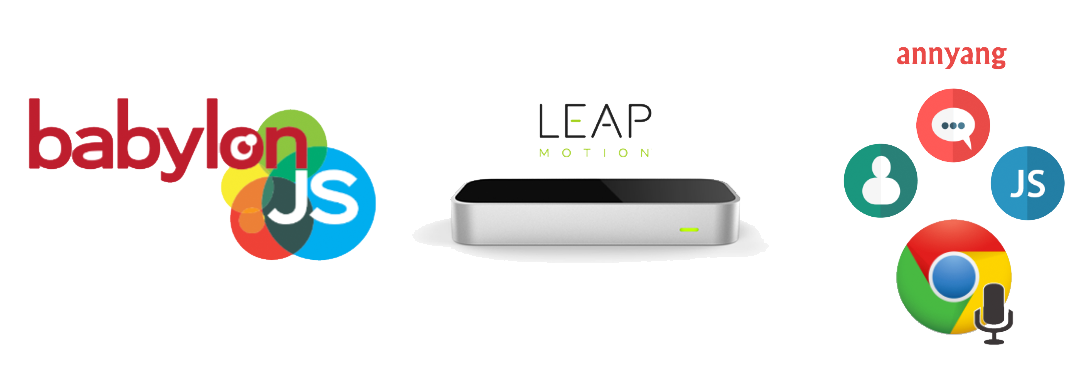
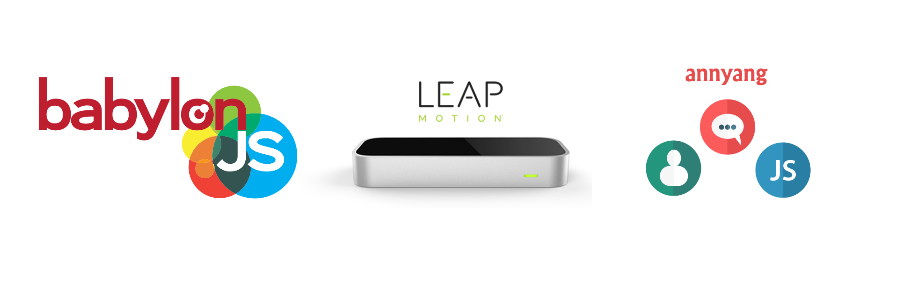
moved annyang section

Changed region(s): [[0.0, 0.2238, 0.9967, 0.951], [0.4672, 0.2797, 0.6229, 0.4476], [0.8098, 0.1119, 0.9344, 0.1958]]

diff --git a/docuPictureEditingSpeechmotion.html b/docuPictureEditingSpeechmotion.html
@@ -480,30 +480,13 @@ currentPickedMesh.scaling.y = handNormPosition[1] * 10;}</code></pre>
                         </br>
                         <p><strong>Annyang</strong></p>
                         <p><small>Sprachsteuerung</small></p>
-                        <p>Annyang ist sehr einfach zu nutzen. Wichtig zu wissen bei Annyang ist (was wir nur durch Testen mit einhergehender Verzweiflung herausfanden)
-                        </p>
-                        <p><strong>Annyang kann nur in einem Tab genutzt werden!</strong> Wird Annyang in mehreren Tabs verwendet funktioniert die Spracherkennung nicht.</p>
-                        <p><strong>Annyang kann nicht im aktuellen Firefox oder Edge verwendet werden.</strong> Im aktuellen Chrome hingegen funktioniert Annyang.</p>
-                        <p><strong>Annyang stürzt manchmal ab.</strong> Meist ohne ersichtlichen Grund und nur durch Neustart der Seite behebbar.</p>
-                        <p>Des weiteren ist darauf zu achten, dass es nicht zuviele Hintergrundgeräusche gibt.</p>
-                        <p>Wenn Annyang denn dann funktioniert, dann werden die vorher festgelegten Befehle sehr gut erkannt.</p>
-                        <p>
+                        <p>Annyang ist, wenn es dann dann funktioniert, wie bereits auf der Startseite erklärt, sehr einfach zu nutzen.</p>
+                        <p>Bei der Bildbearbeitungs-Anwendung wurde Annyang genutzt um per Sprachbefehl das Bild zu manipulieren. Insbesondere in Kombination mit Leap Motion ergaben sich sinnvolle Interaktionen.</p>
+                        <p>Angenommen man skaliert  ein Bild mit Leap Motion, ist also in dem Switch Cases des Leap Loops in einem State der nur skalieren erlaubt. Man hat nun das Bild in der gewünschten Größe und will das Bild "abspeichern", also die Skalier-Interaktion abbrechen,
+                            hat man mit der Leap Motion keine Möglichkeit eine andere Geste zu benutzen um diese Größe zu speichern ohne das
+                        die Größe des Bildes wieder verändert wird, da jede noch so kleine Bewegung aufgezeichnet wird und die Gesten und unterschiedlichen Händer, Finger sich oft nicht gut unterscheiden lassen.</p>
+                        <p>Skaliert man aber ein Bild mit Leap Motion und nutzt Annyang, also Sprachbefehle, um die gewünschte Größe zu speichern funktiert dies sehr gut.</p>
 
-
-<pre><code>//Wenn der Browser Annyang unterstützt
-if (annyang) {
-// Sprachbefehle und die damit aufzurufenden Funktionen
-var commands = {
-'Boden': addGround,
-'verschieben': move,
-'Graustufen': grayscale,
-'Invertieren': invert,
-[...]
-annyang.addCommands(commands);
-//language = german
-annyang.setLanguage("de-DE");
-annyang.start(true, true);}
-else{console.log("Annyang ist mit diesem Browser nicht kompatibel.")}</code></pre></p>
                         </br>
 
                         <a target="_blank" href="https://github.com/lisabell-li/ISY-speechmotion/" class="btn btn-default btn-lg">Link zum Git-Repository</a>

diff --git a/index.html b/index.html
@@ -138,9 +138,15 @@
             </p>
             <br>
             <div>
-                <img src="images/konzept-bild.jpg" class="img-responsive" alt="...">
-                <a href="https://developer.leapmotion.com/documentation/javascript/devguide/Leap_Overview.html" title="Urheber und Quelle">
-                    Logos Leap Motion: Leap Motion, Inc.</a>
+                <img src="images/konzept-bild.png" class="img-responsive" alt="...">
+                Quellen:<a target="_blank" href="https://www.leapmotion.com/" title="Urheber und Quelle">
+                    Logo Leap Motion</a>;
+                <a target="_blank" href="http://www.babylonjs.com/" title="Urheber und Quelle">
+                    Logo BabylonJS</a>;
+                <a target="_blank" href="https://www.talater.com/annyang/" title="Urheber und Quelle">
+                Logo Annyang</a>
+
+
             </div>
 
         </div>
